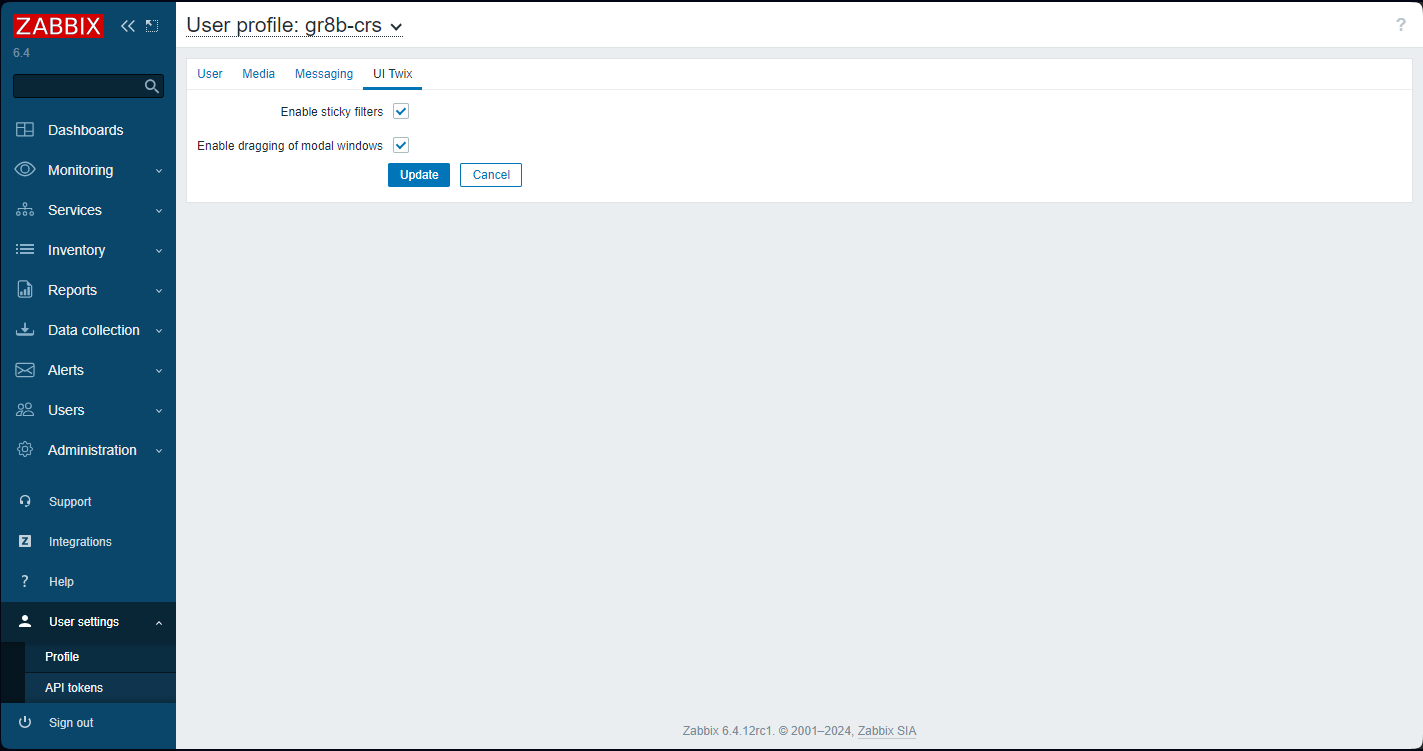
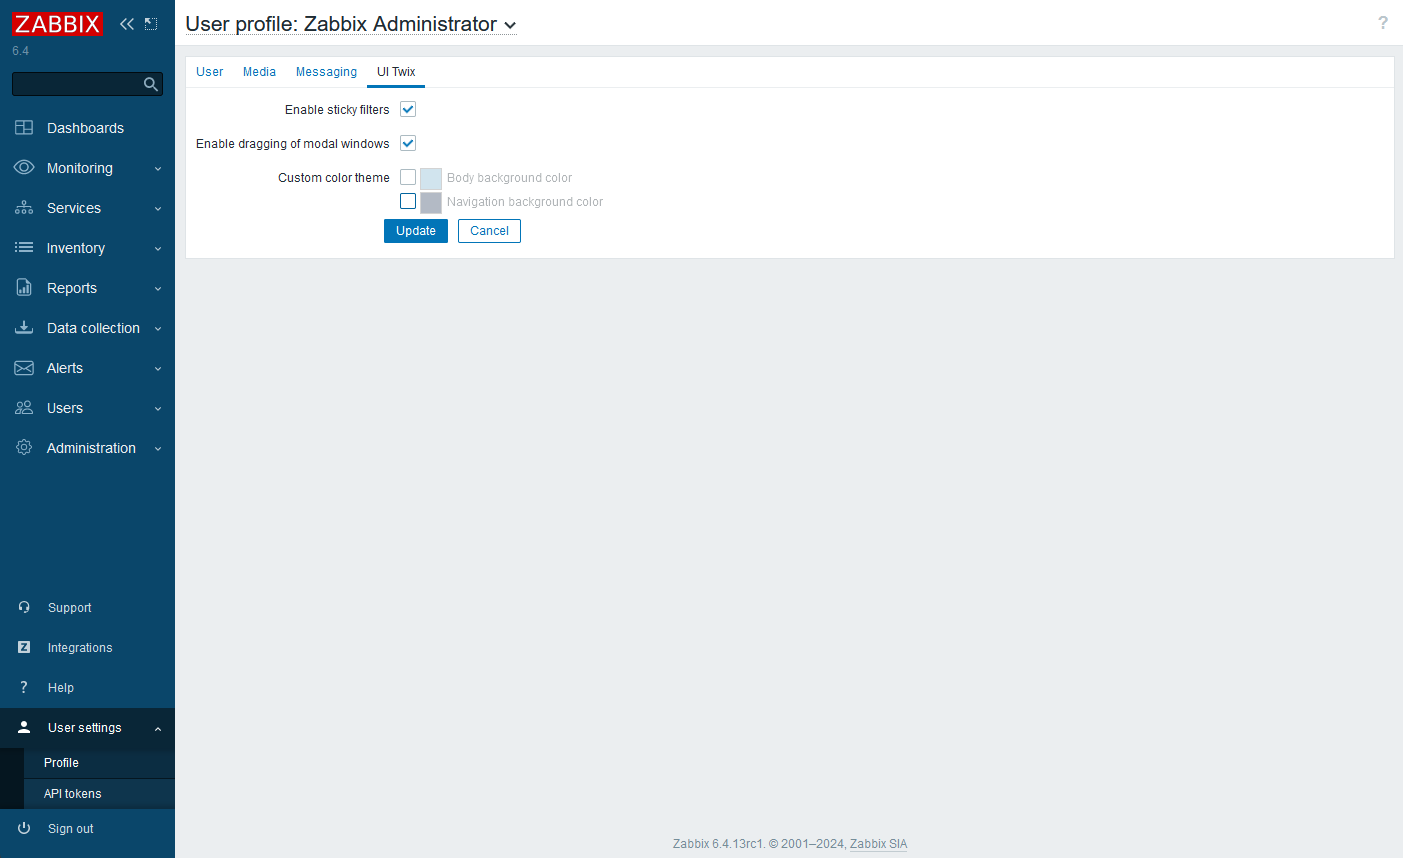
added less support; updated screenshot; updated readme

diff --git a/assets/css/uitwix.css b/assets/css/uitwix.css
@@ -1,0 +1,100 @@
+[uitwix-coloring-body] body {
+  background-color: var(--uitwix-body-bgcolor);
+}
+[uitwix-coloring-sidebar] .sidebar {
+  background-color: var(--uitwix-sidebar-bgcolor);
+}
+[uitwix-coloring-sidebar] .menu-main .submenu {
+  background-color: var(--uitwix-sidebar-bgcolor);
+}
+[uitwix-coloring-sidebar] .menu-user .submenu {
+  background-color: var(--uitwix-sidebar-bgcolor);
+}
+[uitwix-coloring-sidebar] .menu-main .submenu .submenu li a {
+  background-color: var(--uitwix-sidebar-bgcolor);
+}
+[uitwix-coloring-sidebar] .menu-main > li.is-expanded > a,
+[uitwix-coloring-sidebar] .menu-main > li.is-expanded > a:focus,
+[uitwix-coloring-sidebar] .menu-main > li > a:hover,
+[uitwix-coloring-sidebar] .menu-main > li > a:focus,
+[uitwix-coloring-sidebar] .menu-main > li.is-selected > a,
+[uitwix-coloring-sidebar] .menu-main .submenu > li.is-selected > a,
+[uitwix-coloring-sidebar] .menu-main .submenu a:hover,
+[uitwix-coloring-sidebar] .menu-main .submenu a:focus {
+  background-color: rgba(0, 0, 0, 0.2);
+}
+[uitwix-coloring-sidebar] .menu-main .submenu a {
+  background-color: rgba(0, 0, 0, 0.1);
+}
+[uitwix-coloring-sidebar] .menu-main .submenu > li:not(:last-child) {
+  border-bottom: 1px solid rgba(0, 0, 0, 0.4);
+}
+[uitwix-coloring-sidebar] .menu-main .submenu .submenu li a:hover,
+[uitwix-coloring-sidebar] .menu-main .submenu .submenu li a:focus {
+  background-color: rgba(0, 0, 0, 0.2);
+}
+[uitwix-coloring-sidebar] .menu-user > li.is-expanded > a,
+[uitwix-coloring-sidebar] .menu-user > li.is-expanded > a:focus,
+[uitwix-coloring-sidebar] .menu-user > li > a:hover,
+[uitwix-coloring-sidebar] .menu-user > li > a:focus,
+[uitwix-coloring-sidebar] .menu-user > li.is-selected > a,
+[uitwix-coloring-sidebar] .menu-user .submenu > li.is-selected > a,
+[uitwix-coloring-sidebar] .menu-user .submenu a:hover,
+[uitwix-coloring-sidebar] .menu-user .submenu a:focus {
+  background-color: rgba(0, 0, 0, 0.2);
+}
+[uitwix-coloring-sidebar] .menu-user .submenu a {
+  background-color: rgba(0, 0, 0, 0.1);
+}
+[uitwix-coloring-sidebar] .menu-user .submenu > li:not(:last-child) {
+  border-bottom: 1px solid rgba(0, 0, 0, 0.4);
+}
+[uitwix-coloring-sidebar] .form-search .search {
+  background-color: rgba(0, 0, 0, 0.2);
+  border-color: rgba(0, 0, 0, 0.1);
+}
+[theme="blue-theme"] .uitwix-sticky {
+  --nav-background: rgba(235, 238, 240, 0.8);
+}
+[theme="hc-light"] .uitwix-sticky {
+  --nav-background: rgba(255, 255, 255, 0.7);
+}
+[theme="dark-theme"] .uitwix-sticky {
+  --nav-background: rgba(14, 16, 18, 0.7);
+}
+[theme="hc-dark"] .uitwix-sticky {
+  --nav-background: rgba(14, 16, 18, 0.7);
+}
+.uitwix-sticky {
+  position: sticky !important;
+  top: 0;
+  z-index: 100;
+  padding: 2px 0 !important;
+  background-color: var(--nav-background) !important;
+}
+.uitwix-sticky .ui-tabs-nav,
+.uitwix-sticky nav > ul {
+  background-color: var(--nav-background);
+}
+.uitwix-sticky .tabfilter-subfilter tr:first-child {
+  cursor: pointer;
+}
+.uitwix-sticky .tabfilter-subfilter.uitwix-subfilter-collapsed tr:nth-child(n + 2) {
+  display: none;
+}
+.uitwix-sticky.header-navigation {
+  z-index: 101;
+}
+#uitwix input[type="color"] {
+  padding: 0;
+  border: 0;
+  background-color: transparent;
+  vertical-align: middle;
+  margin-right: 5px;
+  width: 22px;
+  height: 22px;
+  line-height: 22px;
+}
+#uitwix label {
+  pointer-events: initial;
+}

diff --git a/assets/less/coloring.less b/assets/less/coloring.less
@@ -1,14 +1,23 @@
-#uitwix label {
-    pointer-events: initial;
+[uitwix-coloring-body] body {
+    background-color: var(--uitwix-body-bgcolor);
 }
 
-[uitwix-coloring-body] body { background-color: var(--uitwix-body-bgcolor); }
-
 [uitwix-coloring-sidebar] {
-    .sidebar { background-color: var(--uitwix-sidebar-bgcolor); }
-    .menu-main .submenu { background-color: var(--uitwix-sidebar-bgcolor); }
-    .menu-user .submenu { background-color: var(--uitwix-sidebar-bgcolor); }
-    .menu-main .submenu .submenu li a { background-color: var(--uitwix-sidebar-bgcolor); }
+    .sidebar {
+        background-color: var(--uitwix-sidebar-bgcolor);
+    }
+
+    .menu-main .submenu {
+        background-color: var(--uitwix-sidebar-bgcolor);
+    }
+
+    .menu-user .submenu {
+        background-color: var(--uitwix-sidebar-bgcolor);
+    }
+
+    .menu-main .submenu .submenu li a {
+        background-color: var(--uitwix-sidebar-bgcolor);
+    }
 
     .menu-main > li.is-expanded > a,
     .menu-main > li.is-expanded > a:focus,

diff --git a/assets/js/twix-coloring.js b/assets/js/twix-coloring.js
@@ -4,8 +4,9 @@
     && document.documentElement.setAttribute('uitwix-coloring-sidebar', 'on');
 (() => {
     const colors = Object.fromEntries(
-        (`; ${document.cookie}`).split(`; uitwix-coloring=`).pop().split(';')[0].split('-').map(v => v.split(':'))
+        decodeURIComponent((`; ${document.cookie}`).split(`; uitwix-coloring=`).pop().split(';')[0]).split('-').map(v => v.split(':'))
     );
+
     const style = document.createElement('style');
     style.textContent = `:root {
     --uitwix-body-bgcolor: ${colors.bodybg??'transparent'};

diff --git a/assets/js/twix-userform.js b/assets/js/twix-userform.js
@@ -42,9 +42,7 @@ $(() => {
             colors.push(`${name}:${color.value}`);
         }
 
-        console.log({colors});
-
-        document.cookie = `uitwix=${checkboxes.join('-')}`;
-        document.cookie = `uitwix-coloring=${colors.join('-')}`;
+        document.cookie = `uitwix=${encodeURIComponent(checkboxes.join('-'))}`;
+        document.cookie = `uitwix-coloring=${encodeURIComponent(colors.join('-'))}`;
     })
 });

diff --git a/assets/less/uitwix.less b/assets/less/uitwix.less
@@ -1,0 +1,19 @@
+@import "coloring";
+@import "sticky";
+
+#uitwix {
+    input[type="color"] {
+        padding: 0;
+        border: 0;
+        background-color: transparent;
+        vertical-align: middle;
+        margin-right: 5px;
+        width: 22px;
+        height: 22px;
+        line-height: 22px;
+    }
+
+    label {
+        pointer-events: initial;
+    }
+}

diff --git a/assets/js/twix-sticky.js b/assets/js/twix-sticky.js
@@ -10,4 +10,7 @@
             el => el.matches('.filter-container') && el.closest('.filter-space') === null
         )
     ].map(el => el instanceof HTMLElement && el.classList.add('uitwix-sticky'))
+    && document.addEventListener('click',
+        e => e.target.closest('.tabfilter-subfilter')?.classList.toggle('uitwix-subfilter-collapsed')
+    )
 );

diff --git a/assets/less/sticky.less b/assets/less/sticky.less
@@ -22,6 +22,14 @@
     nav > ul {
         background-color: var(--nav-background);
     }
+
+    .tabfilter-subfilter tr:first-child {
+        cursor: pointer;
+    }
+
+    .tabfilter-subfilter.uitwix-subfilter-collapsed tr:nth-child(n + 2) {
+        display: none;
+    }
 }
 
 .uitwix-sticky.header-navigation {

diff --git a/README.md b/README.md
@@ -8,3 +8,7 @@
 - Allow users to manually reposition modal windows within the body area.\
   _Please note that manually changing the position of the modal window is not saved._
 
+### Development
+
+Clone repository, run `composer install` to initialize composer packages, then can use `composer run dev-watch --timeout 0` to rebuild `.css` automatically when `assets/less/uitwix.less` file is changed.
+
